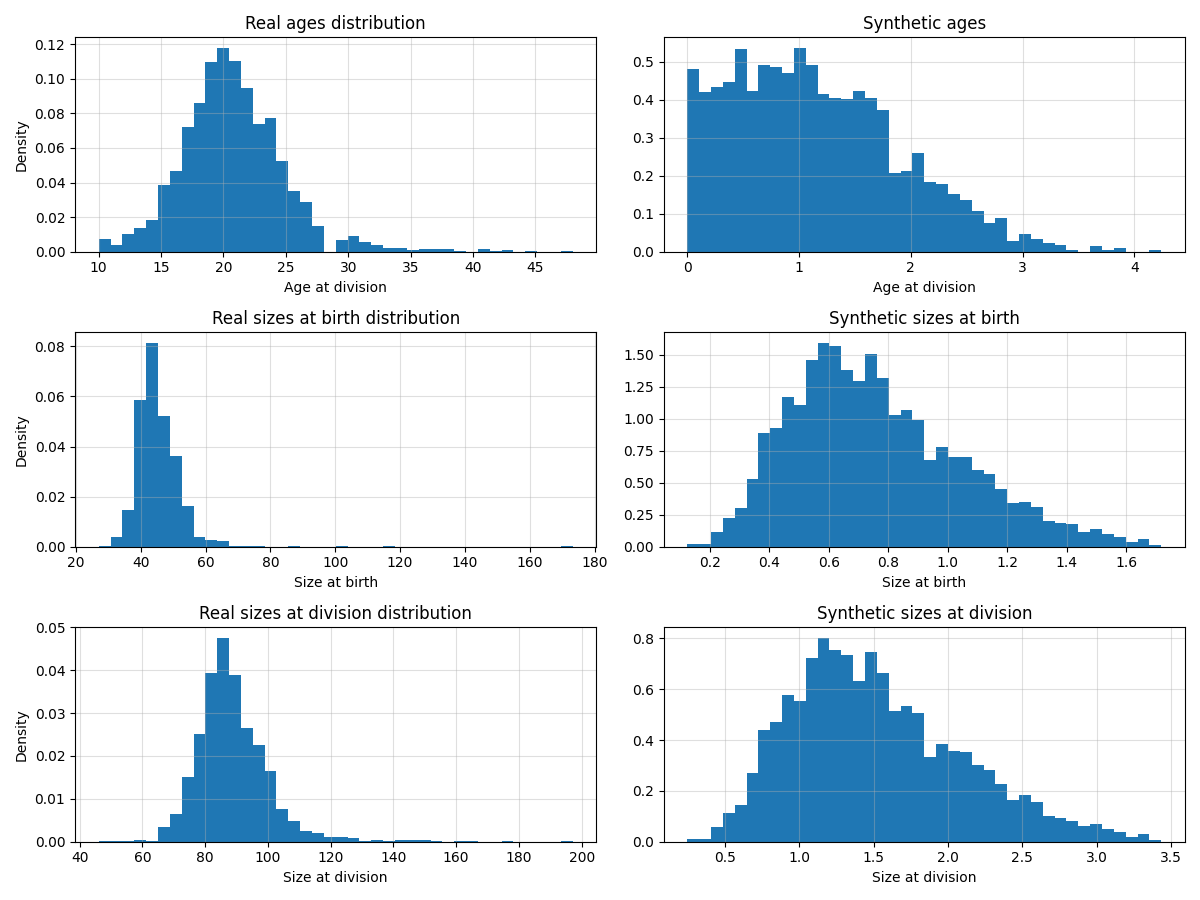
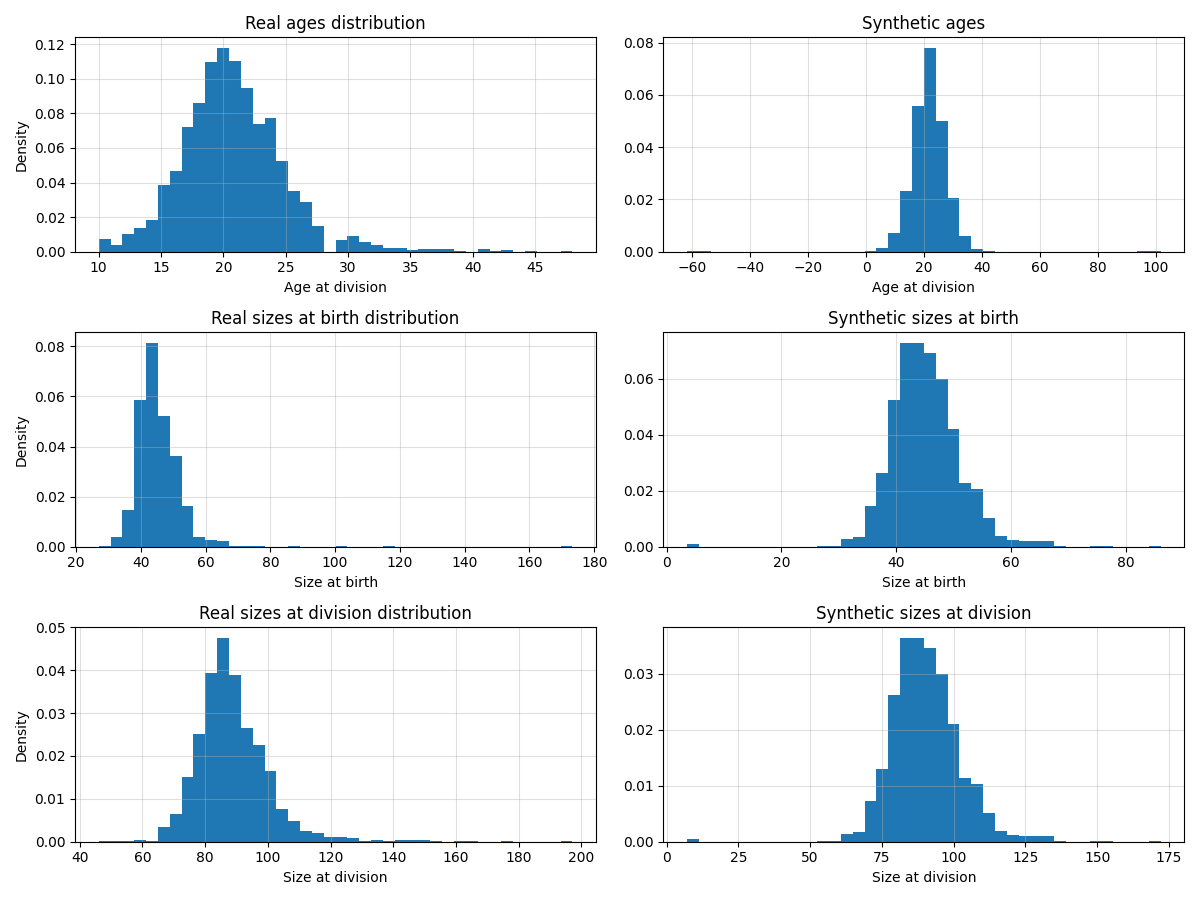
added automatic creation of plots

diff --git a/tmp_estimators.py b/tmp_estimators.py
@@ -3,7 +3,7 @@ from scipy.stats import wasserstein_distance
 from tqdm import tqdm
 import pandas as pd
 
-from plots import plot_main_results
+from plots import plot_main_results, plot_simulation_comparison
 from simulation import simulate_lineage_age, simulate_lineage_size
 from estimators import B_lineage_age, B_lineage_size
 
@@ -62,9 +62,35 @@ if __name__ == "__main__":
         output_path = "7_kernel_lineage_age.png"
         Best_B_hat = lambda a: Best_B_hat_normalized(a / scale_age) / scale_age #un-normalized division rate
         plot_main_results(alpha_grid, dist_hist, best_alpha, real_A, Best_B_hat, output_path, "age")
+
+        synthetic_data = simulate_lineage_age(Xbar*scale_age, a_max*scale_age, Best_B_hat, growth_rate, 2000)
+        synthetic_A = synthetic_data[:,0]
+        synthetic_Xb = synthetic_data[:,1]
+        synthetic_Xd = synthetic_data[:,2]
+        synthetic_A_max = np.round(np.max(synthetic_A),3)
+        synthetic_Xbar = np.round(np.mean(synthetic_Xb), 3)
+        print("real a_max:", a_max*scale_age, "/ real X_bar:", Xbar*scale_age)
+        print("fake a_max:", synthetic_A_max, "/ fake Xbar:", synthetic_Xbar)
+
+
+        output_path = "7_synthetic_lin_age_model.png"
+
+        plot_simulation_comparison(real_A, real_Xb, real_Xd, synthetic_A, synthetic_Xb, synthetic_Xd, output_path)
     
     if test_size:
         best_alpha, dist_hist, Best_B_hat_normalized = grid_search_alpha(real_Xb_normalized, B_lineage_size, alpha_grid, simulate_lineage_size, growth_rate, x_max, Xbar)
         output_path = "7_kernel_lineage_size.png"
         Best_B_hat = lambda x: Best_B_hat_normalized(x / scale_size) / scale_size #un-normalized division rate
         plot_main_results(alpha_grid, dist_hist, best_alpha, real_Xb, Best_B_hat, output_path, "size")
+        
+        synthetic_size_data = simulate_lineage_size(Xbar*scale_size, Best_B_hat, growth_rate, 2000, x_max*scale_size, burn_in=200)
+        synthetic_A = synthetic_size_data[:,0]
+        synthetic_Xb = synthetic_size_data[:,1]
+        synthetic_Xd = synthetic_size_data[:,2]
+        synthetic_A_max = np.round(np.max(synthetic_A),3)
+        synthetic_Xbar = np.round(np.mean(synthetic_Xb), 3)
+        print("real a_max:", a_max*scale_age, "/ real X_bar:", Xbar*scale_size)
+        print("fake a_max:", synthetic_A_max, "/ fake Xbar:", synthetic_Xbar)
+        
+        output_path = 'synthetic_lin_size_model.png'
+        plot_simulation_comparison(real_A, real_Xb, real_Xd, synthetic_A, synthetic_Xb, synthetic_Xd, output_path)
